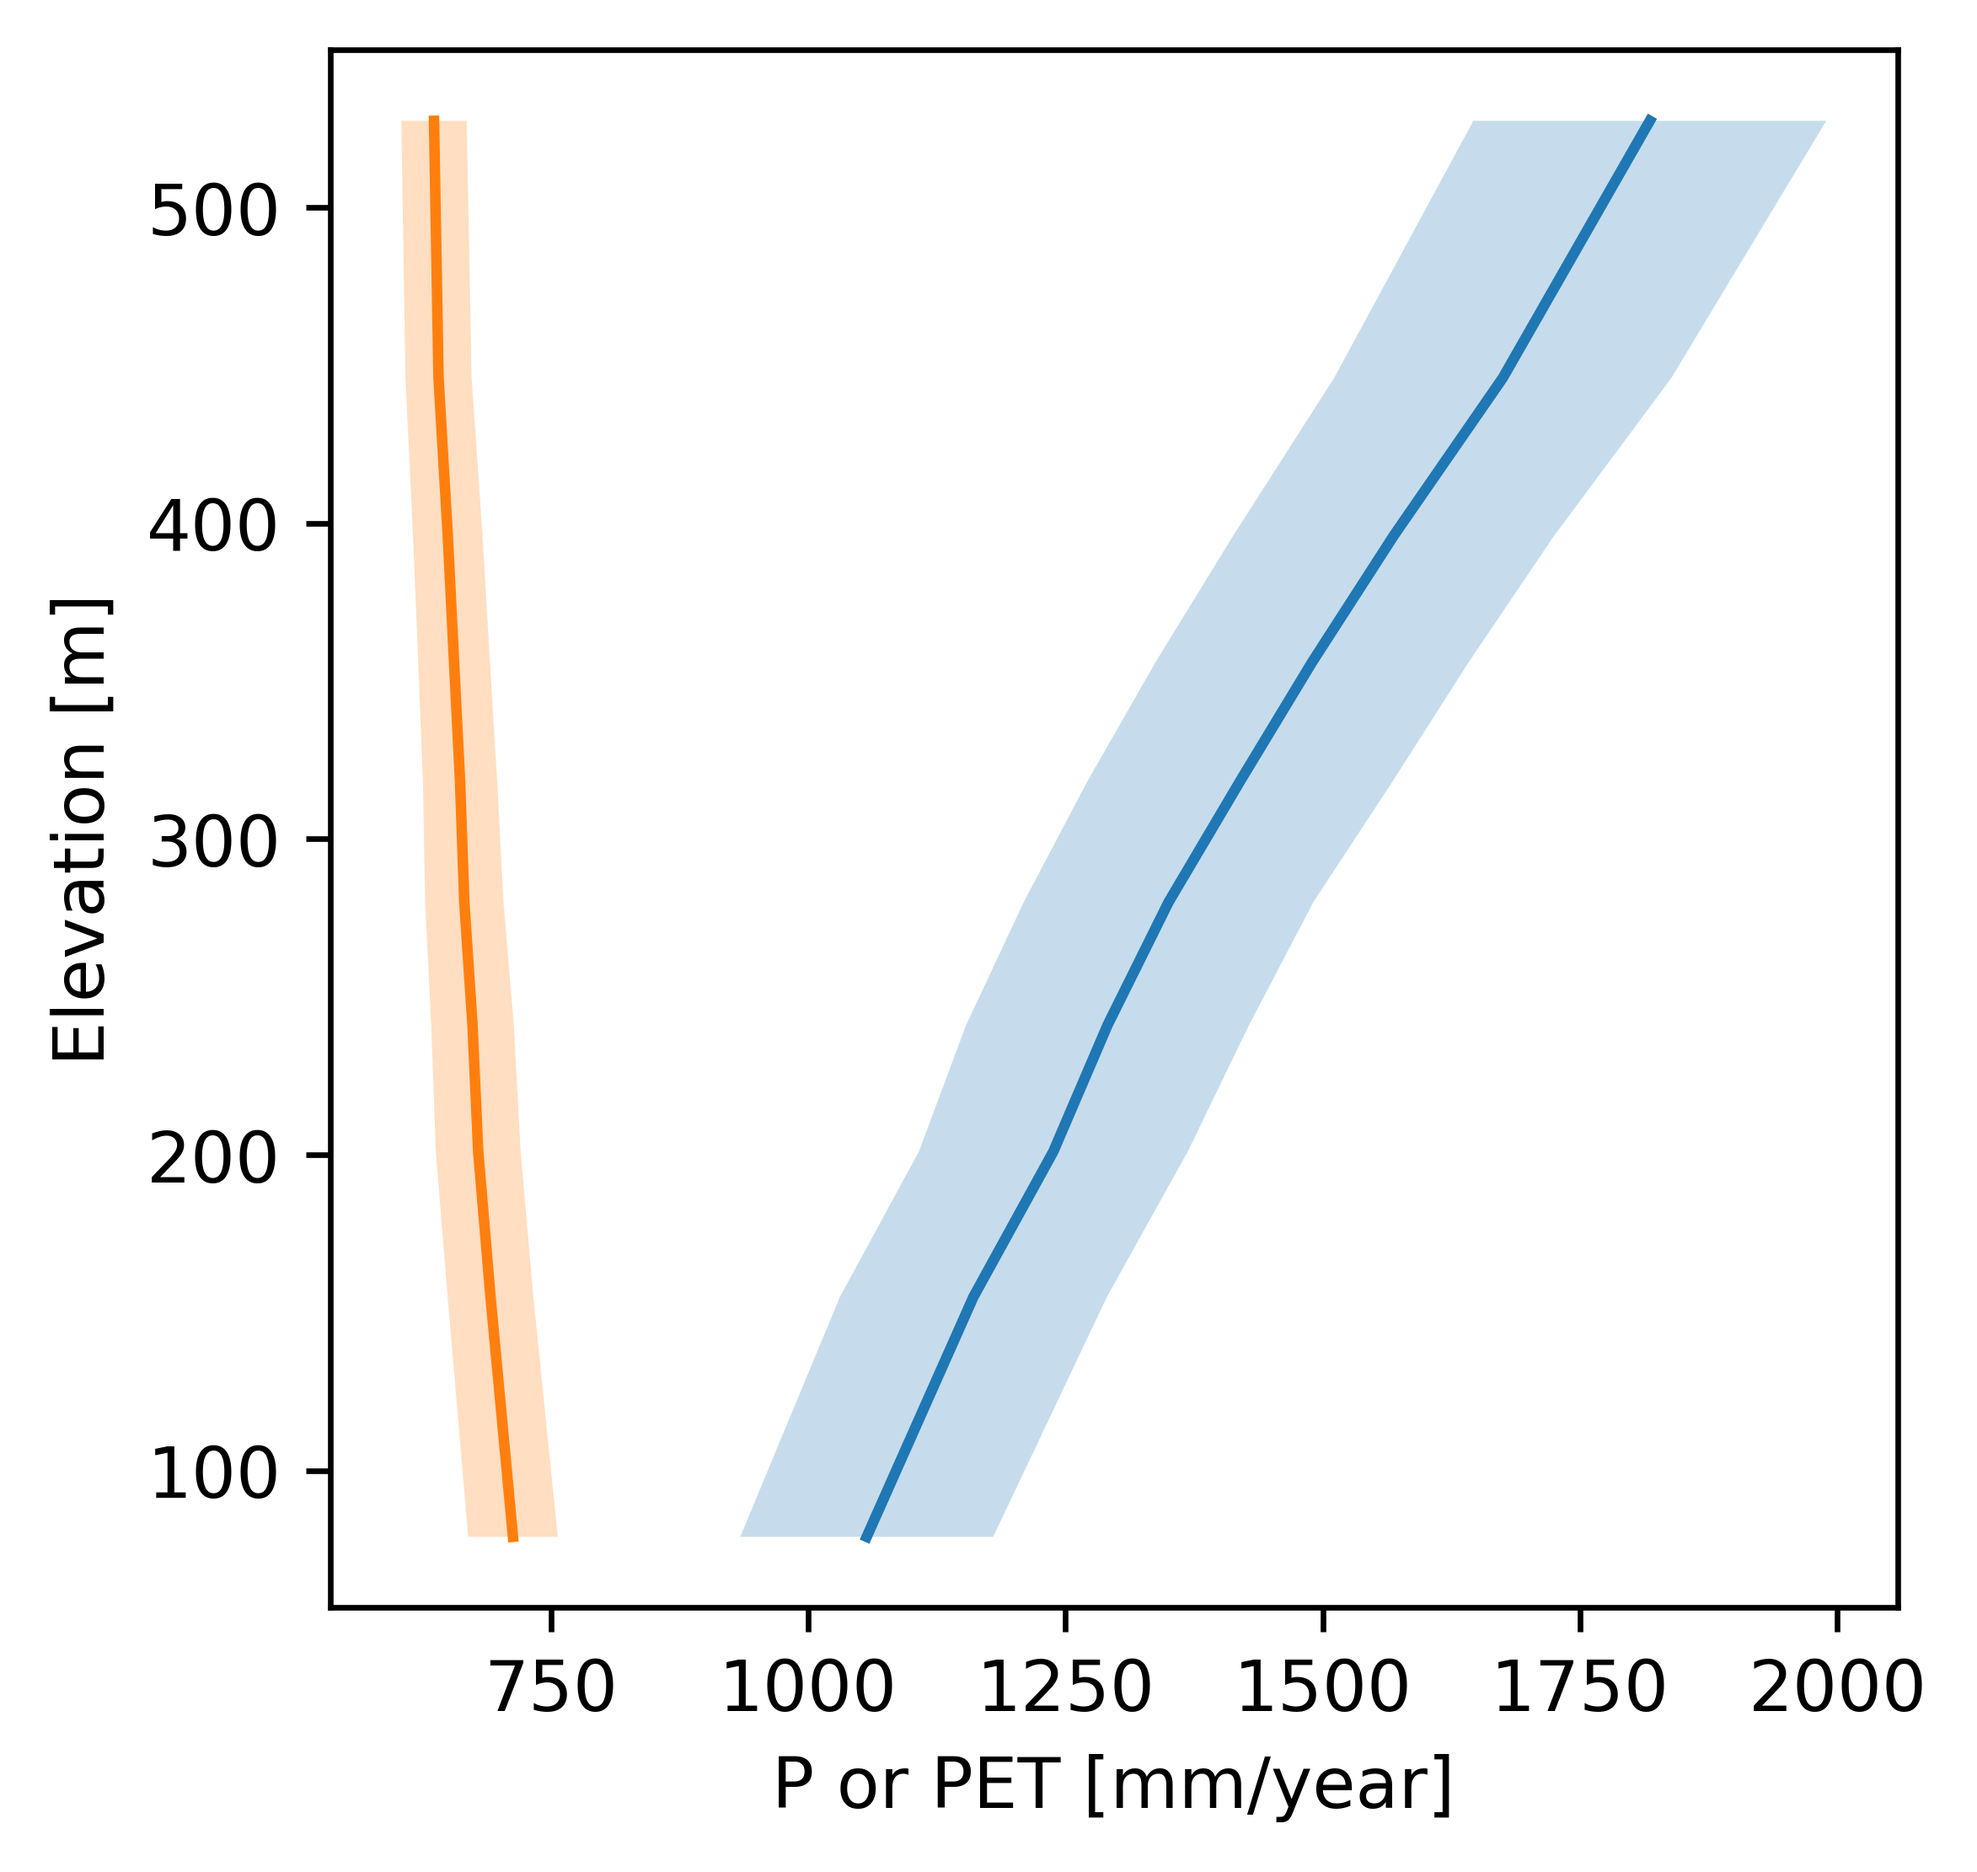
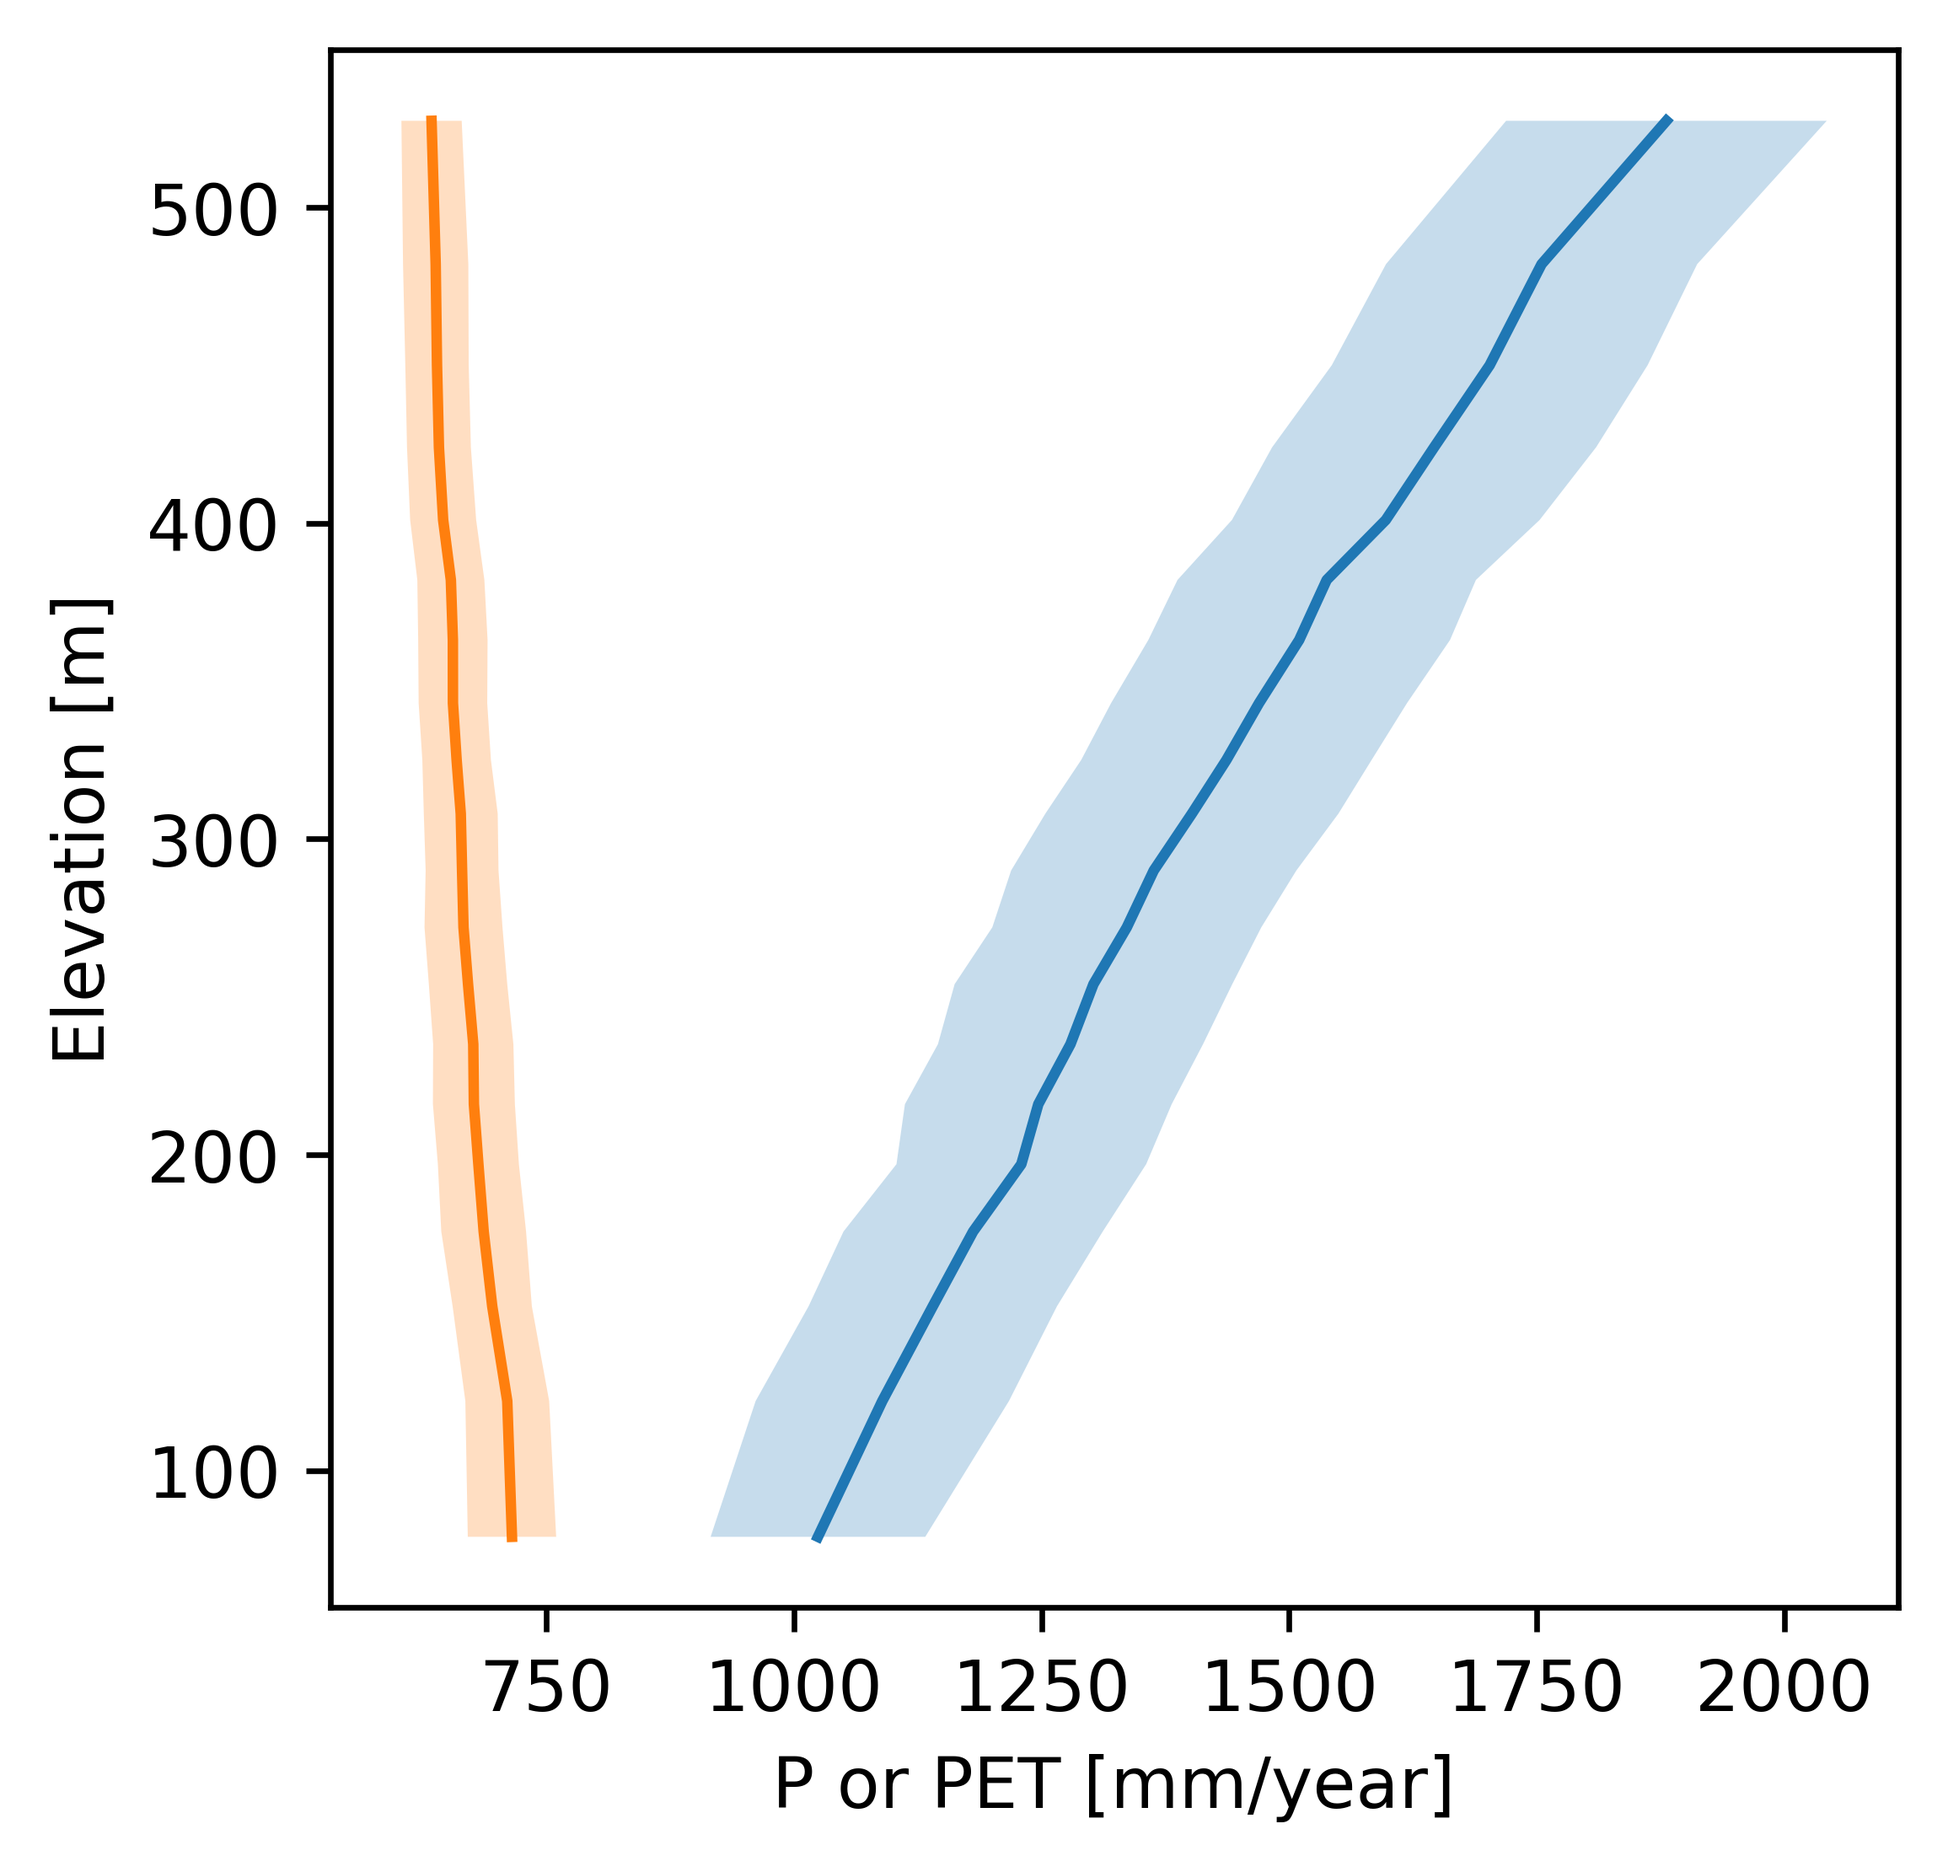
add T

diff --git a/climatic_water_balance.py b/climatic_water_balance.py
@@ -19,13 +19,16 @@ shp_path = data_path + "GMBA mountain inventory V1.2(entire world)/GMBA Mountain
 dem_path = data_path + "wc2.1_30s_elev/wc2.1_30s_elev.tif"
 P_path = data_path + "wc2.1_30s_bio/wc2.1_30s_bio_12.tif"
 PET_path = data_path + "7504448/global-et0_annual.tif/et0_yr/et0_yr.tif"
+T_path = data_path + "wc2.1_30s_bio/wc2.1_30s_bio_1.tif"
 P_name = "P" #"PET"
 PET_name = "PET" #"PET"
+PET_name = "T" #"PET"
 
 # open raster and plot
 dem = rxr.open_rasterio(dem_path, masked=True).squeeze()
 P = rxr.open_rasterio(P_path, masked=True).squeeze()
 PET = rxr.open_rasterio(PET_path, masked=True).squeeze()
+T = rxr.open_rasterio(T_path, masked=True).squeeze()
 
 """
 f, ax = plt.subplots(figsize=(10, 5))
@@ -70,6 +73,7 @@ for mountain_name in mountain_list:
     dem_clipped = dem.rio.clip(mountain_range.geometry.apply(mapping), dem.rio.crs)
     P_clipped = P.rio.clip(mountain_range.geometry.apply(mapping), dem.rio.crs)
     PET_clipped = PET.rio.clip(mountain_range.geometry.apply(mapping), dem.rio.crs)
+    T_clipped = T.rio.clip(mountain_range.geometry.apply(mapping), dem.rio.crs)
 
     """
     hillshade = es.hillshade(dem_clipped)
@@ -89,6 +93,7 @@ for mountain_name in mountain_list:
 
     x1 = P_clipped.__array__()
     x2 = PET_clipped.__array__()
+    x3 = T_clipped.__array__()*100
     y = dem_clipped.__array__()
     lat = dem_clipped.y.__array__()
     lon = dem_clipped.x.__array__()
@@ -97,20 +102,22 @@ for mountain_name in mountain_list:
 
     x1 = x1.flatten()
     x2 = x2.flatten()
+    x3 = x3.flatten()
     y = y.flatten()
     lat = lat.flatten()
     lon = lon.flatten()
 
-    notfinite = (~np.isfinite(x1) | ~np.isfinite(x2) | ~np.isfinite(y))
+    notfinite = (~np.isfinite(x1) | ~np.isfinite(x2) | ~np.isfinite(x3) | ~np.isfinite(y))
     x1 = np.delete(x1, notfinite)
     x2 = np.delete(x2, notfinite)
+    x3 = np.delete(x3, notfinite)
     y = np.delete(y, notfinite)
     lat = np.delete(lat, notfinite)
     lon = np.delete(lon, notfinite)
 
     plot_idx = np.random.permutation(x1.shape[0])
 
-    bin_edges = stats.mstats.mquantiles(y, np.linspace(0,1,11))
+    bin_edges = stats.mstats.mquantiles(y, np.linspace(0,1,51))
 
     mean_stat1 = stats.binned_statistic(y, x1, statistic=lambda y: np.nanmean(y), bins=bin_edges)
     std_stat1 = stats.binned_statistic(y, x1, statistic=lambda y: np.nanstd(y), bins=bin_edges)
@@ -128,8 +135,16 @@ for mountain_name in mountain_list:
     asymmetric_error2 = [median_stat2.statistic - p_lower_stat2.statistic,
                          p_upper_stat2.statistic - median_stat2.statistic]
 
+    mean_stat3 = stats.binned_statistic(y, x3, statistic=lambda y: np.nanmean(y), bins=bin_edges)
+    std_stat3 = stats.binned_statistic(y, x3, statistic=lambda y: np.nanstd(y), bins=bin_edges)
+    median_stat3 = stats.binned_statistic(y, x3, statistic=np.nanmedian, bins=bin_edges)  # bins=nbins, range=bin_range
+    p_lower_stat3 = stats.binned_statistic(y, x3, statistic=lambda y: np.quantile(y, .25), bins=bin_edges)
+    p_upper_stat3 = stats.binned_statistic(y, x3, statistic=lambda y: np.quantile(y, .75), bins=bin_edges)
+    asymmetric_error3 = [median_stat3.statistic - p_lower_stat3.statistic,
+                         p_upper_stat3.statistic - median_stat3.statistic]
+
     #bin_means = (mean_stat1.bin_edges[1:] + mean_stat1.bin_edges[0:-1]) / 2
-    bin_medians = stats.mstats.mquantiles(y, np.linspace(0.05,0.95,10))
+    bin_medians = stats.mstats.mquantiles(y, np.linspace(0.05,0.95,50))
 
     f, ax = plt.subplots(figsize=(4, 4))
     """
@@ -149,10 +164,15 @@ for mountain_name in mountain_list:
     ax.fill_betweenx(bin_medians, mean_stat2.statistic - std_stat2.statistic, mean_stat2.statistic + std_stat2.statistic,
                      facecolor='tab:orange', alpha=0.25)
 
+    ax.plot(mean_stat3.statistic, bin_medians, c='tab:purple', label='Temperature')
+    ax.fill_betweenx(bin_medians, mean_stat3.statistic - std_stat3.statistic,
+                     mean_stat3.statistic + std_stat3.statistic,
+                     facecolor='tab:purple', alpha=0.25)
+
     ax.set_ylabel('Elevation [m]')
-    ax.set_xlabel('P or PET [mm/year]')
+    ax.set_xlabel('P or PET [mm/year] or T [100*°C]')
     #ax.set_xlim([0, 5000])
     #ax.set_ylim([0, 6000])
     #plt.colorbar(sc)
 
-    plt.savefig(results_path + mountain_name + " " + "climatic_water_balance2" + ".png", dpi=600,  bbox_inches='tight')
+    plt.savefig(results_path + mountain_name + " " + "climatic_water_balance3" + ".png", dpi=600,  bbox_inches='tight')
